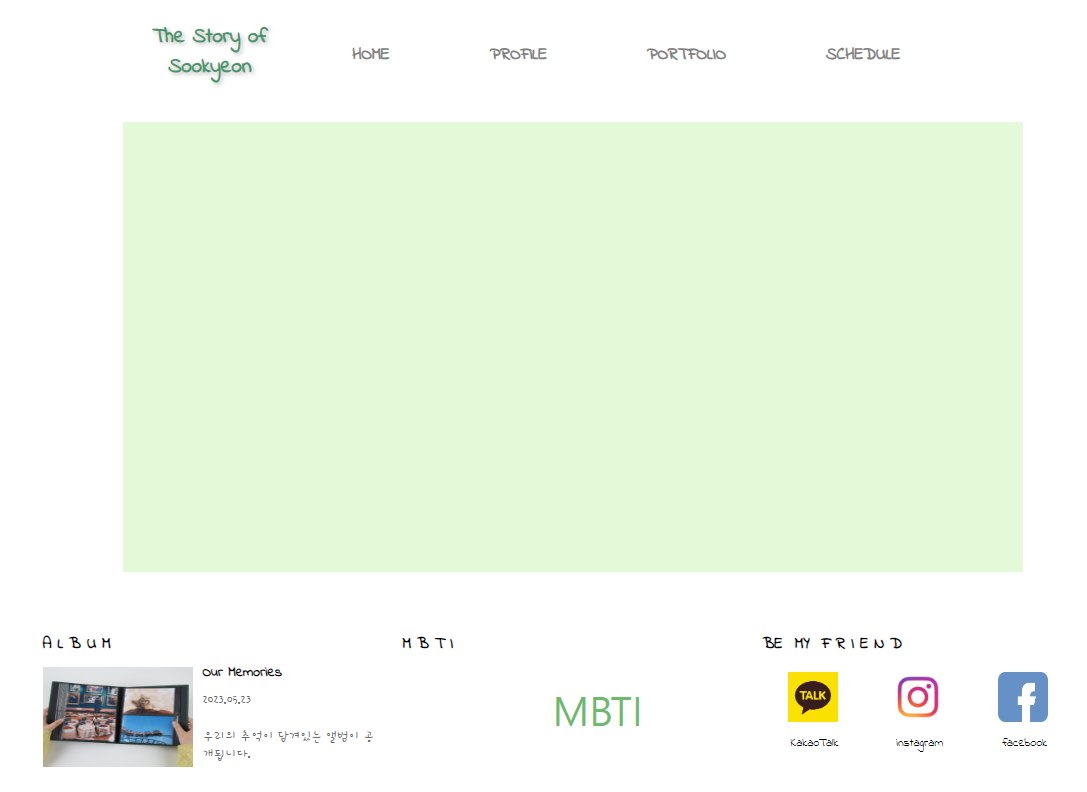
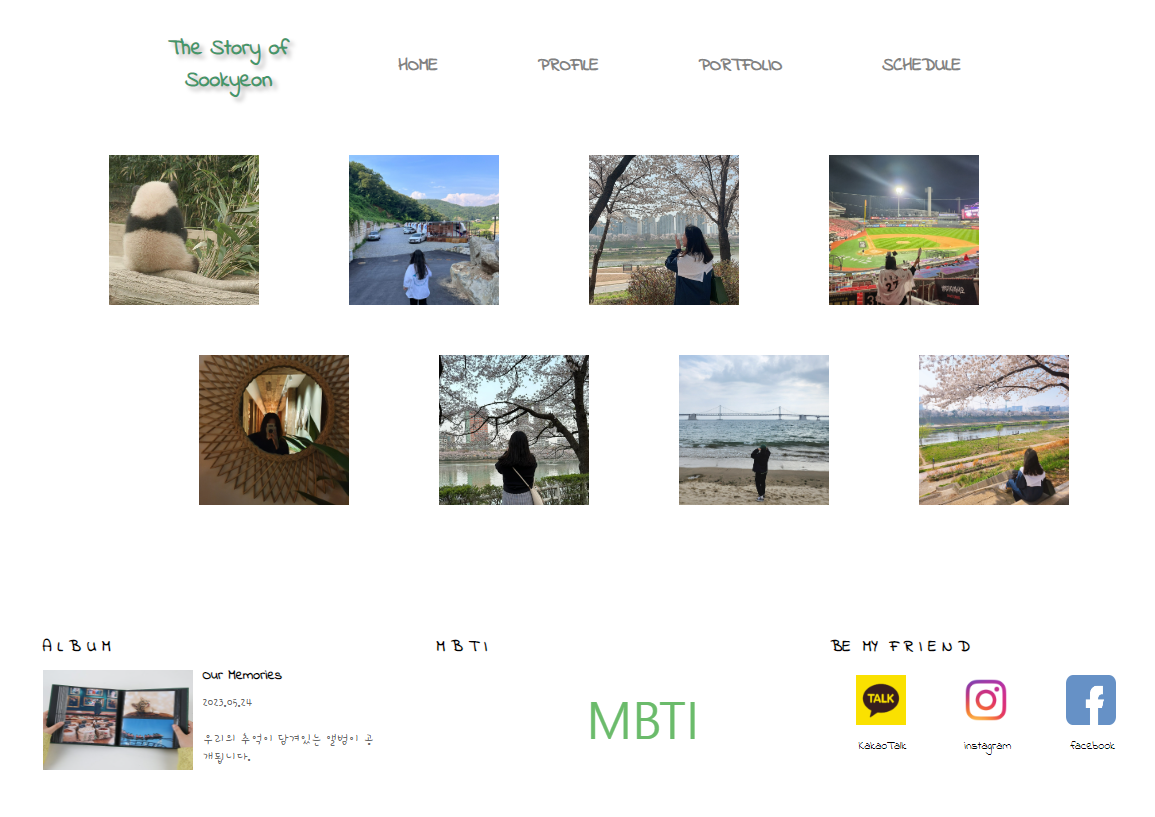
Add files via upload

diff --git a/7일차/myhomepage_2.html b/7일차/myhomepage_2.html
@@ -34,19 +34,18 @@
     <br><br>
 
 
-    
     <div id="slider1">
         <a href="#"><img src="img/푸바오.jpg" alt="사진"></a>
         <a href="#"><img src="img/나22.jpg" alt="사진"></a>
         <a href="#"><img src="img/나33.jpg" alt="사진"></a>
         <a href="#"><img src="img/나44.jpg" alt="사진"></a>
-     </div>
-        <div id="slider2">
-         <a href="#"><img src="img/나88.jpg" alt="사진"></a>
-         <a href="#"><img src="img/나77.jpg" alt="사진"></a>
-         <a href="#"><img src="img/나66.jpg" alt="사진"></a>
-          <a href="#"><img src="img/나55.jpg" alt="사진"></a>
-      </div>
+    </div>
+    <div id="slider2">
+        <a href="#"><img src="img/나88.jpg" alt="사진"></a>
+        <a href="#"><img src="img/나77.jpg" alt="사진"></a>
+        <a href="#"><img src="img/나66.jpg" alt="사진"></a>
+        <a href="#"><img src="img/나55.jpg" alt="사진"></a>
+    </div>
     
 
 
@@ -55,7 +54,7 @@
            <h3>A L B U M</h3>
            <a href="img/앨범.jpg" target="_blank"><img src="img/앨범.jpg" alt=""></a>
            <h4>Our Memories</h4>
-           <p>2023.05.24 <br><br> 우리의 추억이 담겨있는 앨범이 공개됩니다.</p>
+           <p>2023.05.24 대.공.개! <br><br> 클릭하시면 추억이 담겨있는 앨범을 보실 수 있습니다.</p>
         </article>
 
         <article>
@@ -122,18 +121,30 @@
                 <span>1. The Story of Sookyeon</span>
             </div>
             <div>
-                <a href="http://127.0.0.1:5500/myhomepage_2.html#" target="_blank"><img src="img/portfolio_1.PNG" alt=""></a>
+                <a href="http://127.0.0.1:5500/myhomepage_2.html#schedule" target="_blank"><img src="img/portfolio_2.PNG" alt=""></a>
                 <span>2. 두번째 작업물</span>
             </div>
             <div>
-                <a href="http://127.0.0.1:5500/myhomepage_2.html#" target="_blank"><img src="img/portfolio_1.PNG" alt=""></a>
+                <a href="http://127.0.0.1:5500/myhomepage_2.html#profile" target="_blank"><img src="img/portfolio_3.PNG" alt=""></a>
                 <span>3. 세번째 작업물</span>
+            </div>
+            <div>
+                <a href="http://127.0.0.1:5500/myhomepage_2.html#portfolio" target="_blank"><img src="img/portfolio_4.PNG" alt=""></a>
+                <span>4. 네번째 작업물</span>
+            </div>
+            <div>
+                <a href="http://127.0.0.1:5500/myhomepage_2.html#" target="_blank"><img src="img/portfolio_1.PNG" alt=""></a>
+                <span>5. 다섯번째 작업물</span>
+            </div>
+            <div>
+                <a href="http://127.0.0.1:5500/myhomepage_2.html#schedule" target="_blank"><img src="img/portfolio_2.PNG" alt=""></a>
+                <span>6. 여섯번째 작업물</span>
             </div>
             <p><a href="#"><br><br><br>[home]</a></p>
 
         </div>
 
-        <br><br>
+        <br><br><br><br>
 
         <div id="schedule">
             <h2># Schedule</h2>
@@ -144,7 +155,7 @@
         </div>
         
     
-        <br><br><br><br>
+        <br><br><br><br><br>
 
     <footer>
         <!-- <img src="img/logo2.jpg" alt="로고"> -->

diff --git a/7일차/css/style3.css b/7일차/css/style3.css
@@ -9,21 +9,24 @@ header {width: 1100px; height: 100px; margin: 0 auto; background-color: white;}
 #logo {width: 150px; height: 80px; margin: 30px 0px 0px 100px; float: left;
     background-color: white; font-family: Indie Flower, sans-serif;}
 #logo a{text-decoration: none;}
-#logo h3{font-size: 21px; margin: 10px 0px 0 30px; color: rgb(68, 150, 105);
-    text-shadow: 2px 2px 4px rgba(112, 108, 108, 0.5)}
+#logo h3{font-size: 22px; margin: 10px 0px 0 30px; color: rgb(98, 179, 134);
+    text-shadow: 4px 10px 10px rgba(99, 93, 93, 0.5)}
 
-nav {width: 740px; height: 30px; ; margin: 50px 80px 0px 0px ;
+nav {width: 740px; height: 30px; ; margin: 50px 50px 0px 0px ;
     float: right; background-color: white; font-family: Indie Flower, sans-serif;}
 nav ul{font-weight: bold;}
 nav li{ padding: 10px 50px; float: left;}
-nav ul li a{ text-decoration: none; color:gray; font-size: 17px;}
+nav ul li a{ text-decoration: none; color:gray; font-size: 18px;}
 nav ul li a:hover{color: rgb(98, 168, 98);}
 
 
 #slider1 {width: 1100px; height: 200px; margin: 0 auto; }
 #slider2 {width: 1100px; height: 200px; margin: 0 auto; }
 #slider1 img{width: 150px; height: 150px; margin: 0px 0px 0 50px; padding: 20px; float: left;}
+#slider1 img:hover{box-shadow: 0 4px 8px 0 white, 0 6px 20px 0 rgb(107, 187, 107); transition: 0.3s;
+}
 #slider2 img{width: 150px; height: 150px; margin: 0px 50px 0 0px; padding: 20px; float: right;}
+#slider2 img:hover{box-shadow: 0 4px 8px 0 white, 0 6px 20px 0 rgb(107, 187, 107); transition: 0.3s;}
 
 
 section {width: 1200px; height: 280px; margin:0 auto; background-color: white;
@@ -35,7 +38,7 @@ article:nth-child(1) img:hover{box-shadow: 0 4px 8px 0 white, 0 6px 20px 0 gray;
 article div img{width: 50px; height: 50px; float:left; padding: 10px 0px 5px 0px;}
 
 article h3 {width: 100%; height: 30px; margin: 0; font-weight: bold; font-size: 16px;}
-article h4 {height: 30px; font-size: 14px; margin: 0;}
+article h4 {height: 20px; font-size: 14px; margin: 0;}
 article p {font-size: 14px; font-family: Hi Melody; color: #666;}
 
 
